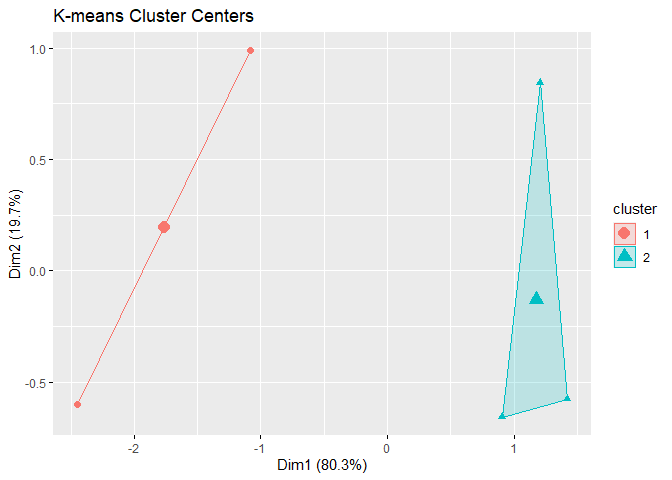
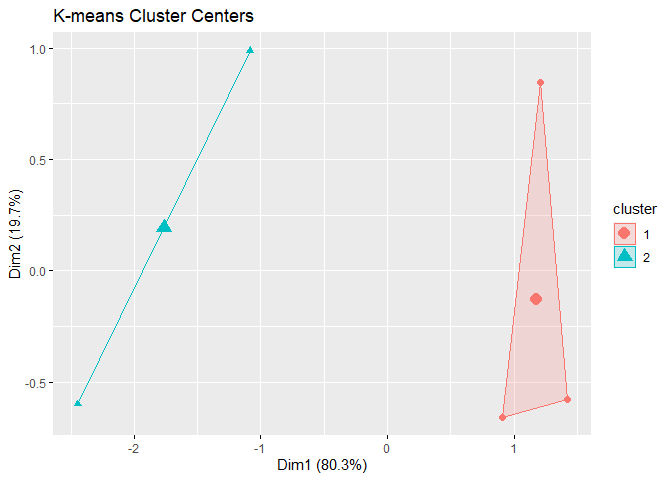
Ass 6

diff --git a/MVA_Project1.md b/MVA_Project1.md
@@ -768,8 +768,8 @@ fviz_silhouette(sil, main = "Silhouette Plot for K-means Clustering")
 ```
 
     ##   cluster size ave.sil.width
-    ## 1       1    8          0.46
-    ## 2       2   12          0.80
+    ## 1       1   12          0.80
+    ## 2       2    8          0.46
 
 ![](MVA_Project1_files/figure-gfm/unnamed-chunk-12-3.png)<!-- -->
 
@@ -871,16 +871,9 @@ factor_model <- fa(data_num, nfactors = 3, rotate = "varimax")
 fa.parallel(data_num[-1])
 ```
 
-    ## Warning in fa.stats(r = r, f = f, phi = phi, n.obs = n.obs, np.obs = np.obs, :
-    ## The estimated weights for the factor scores are probably incorrect.  Try a
-    ## different factor score estimation method.
-
-    ## Warning in fac(r = r, nfactors = nfactors, n.obs = n.obs, rotate = rotate, : An
-    ## ultra-Heywood case was detected.  Examine the results carefully
-
 ![](MVA_Project1_files/figure-gfm/unnamed-chunk-13-1.png)<!-- -->
 
-    ## Parallel analysis suggests that the number of factors =  1  and the number of components =  1
+    ## Parallel analysis suggests that the number of factors =  1  and the number of components =  0
 
 ``` r
 print(factor_model)
